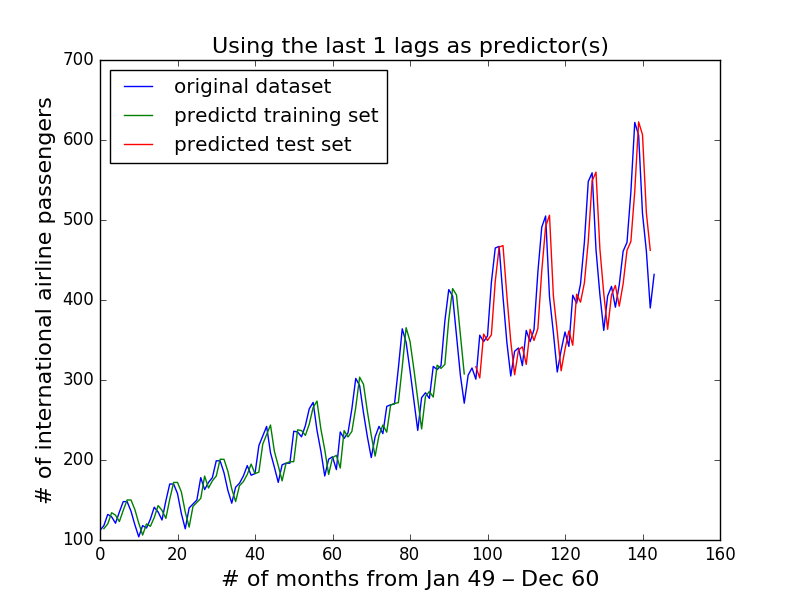
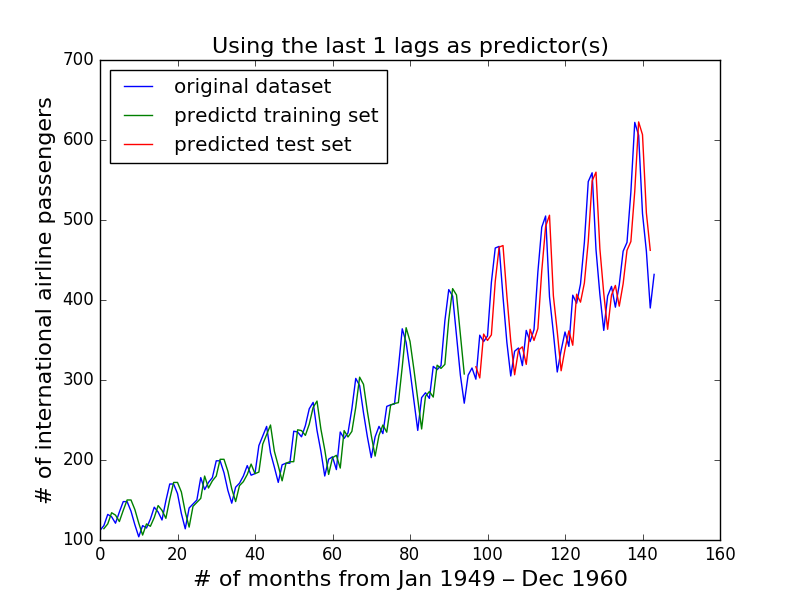
fit shallow nn, use click package

Changed region(s): [[0.25, 0.93, 0.625, 0.99], [0.6562, 0.93, 0.7812, 0.99]]

diff --git a/keras_nn_timeseries1.py b/keras_nn_timeseries1.py
@@ -1,6 +1,11 @@
 # Fit a shallow nueral network with 1 input, 1 hidden layer with 8 neurons, and an output layer.
 # A time series problem is converted into a regression problem by fitting:
 #  y(t) to [y(t-1) ... y(t-lag)]
+
+# Data:
+# International airline passengers: monthly totals in thousands. Jan 49 – Dec 60
+# https://datamarket.com/data/set/22u3/
+
 import numpy as np
 import matplotlib.pyplot as plt
 import pandas as pd
@@ -90,7 +95,7 @@ def main(lag):
 	plt.plot(trainPredictPlot, label = 'predictd training set')
 	plt.plot(testPredictPlot, label = 'predicted test set')
 	plt.ylabel('# of international airline passengers', fontsize=16)
-	plt.xlabel('# of months from Jan 49 – Dec 60', fontsize=16)
+	plt.xlabel('# of months from Jan 1949 – Dec 1960', fontsize=16)
 	plt.title('Using the last {} lags as predictor(s)'.format(lag), fontsize=16)
 	plt.legend(loc="upper left")
 	plt.savefig('lag{}.png'.format(lag))
